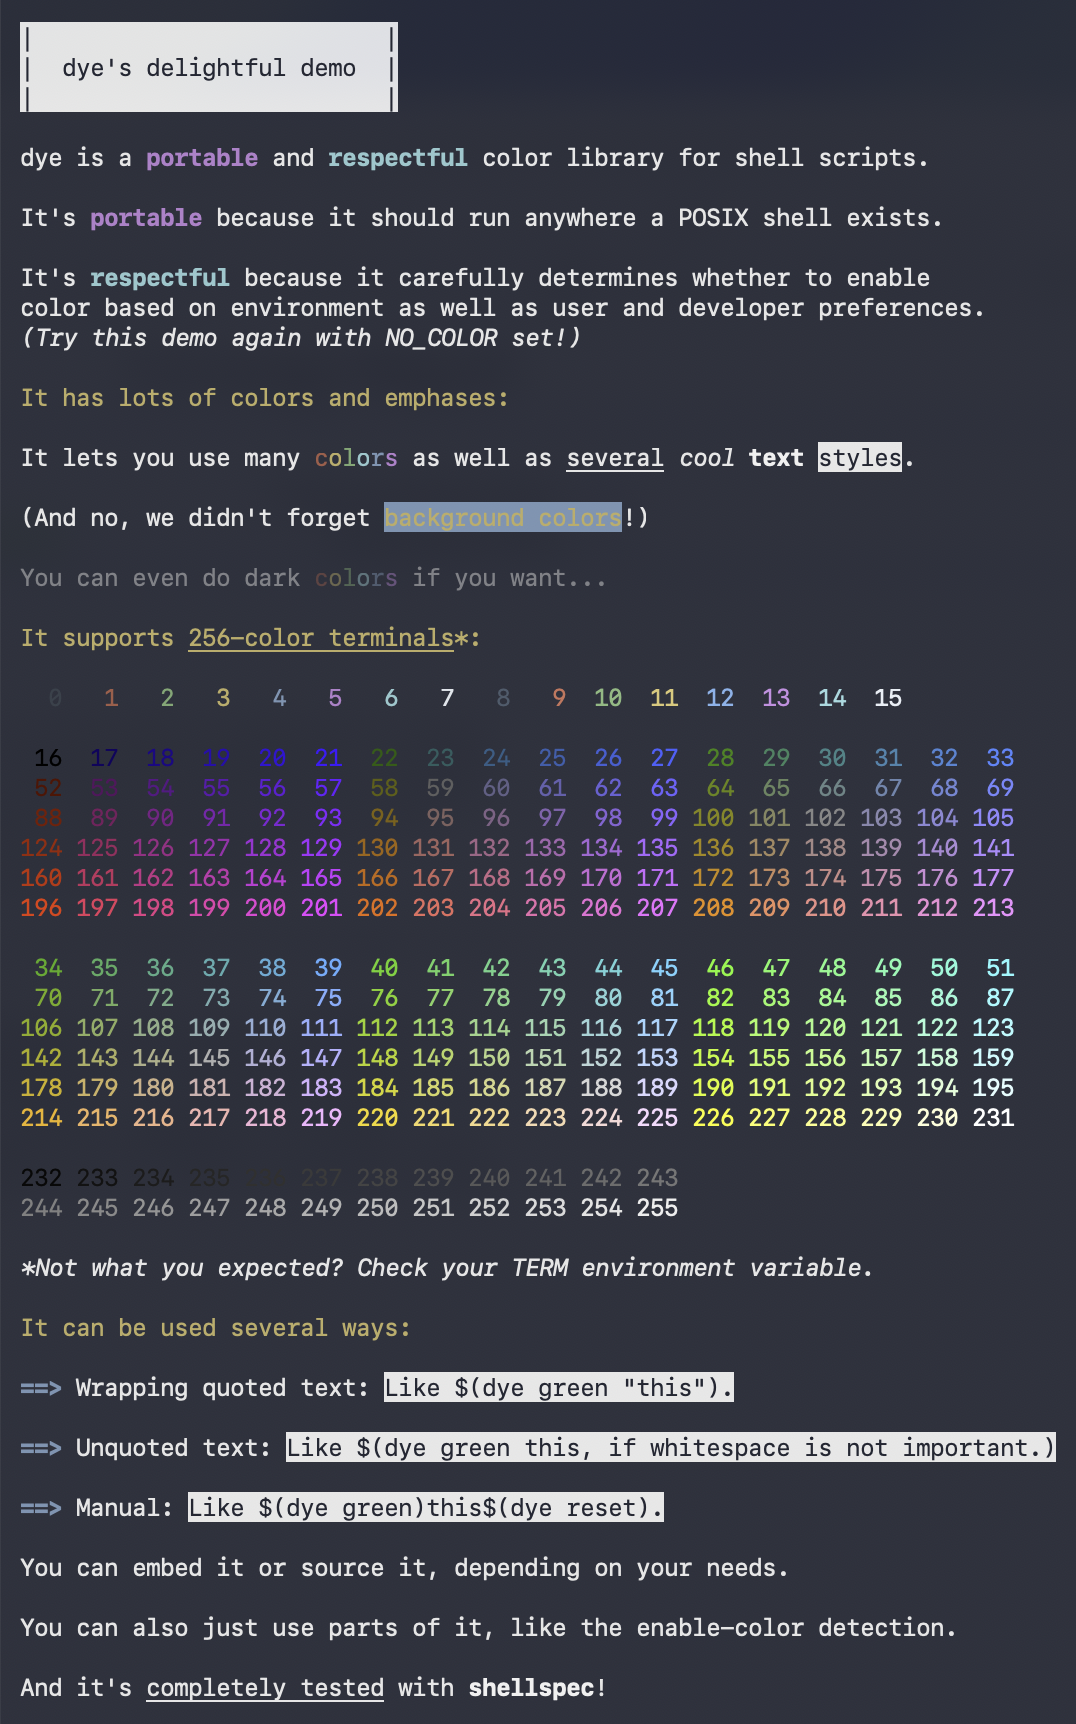
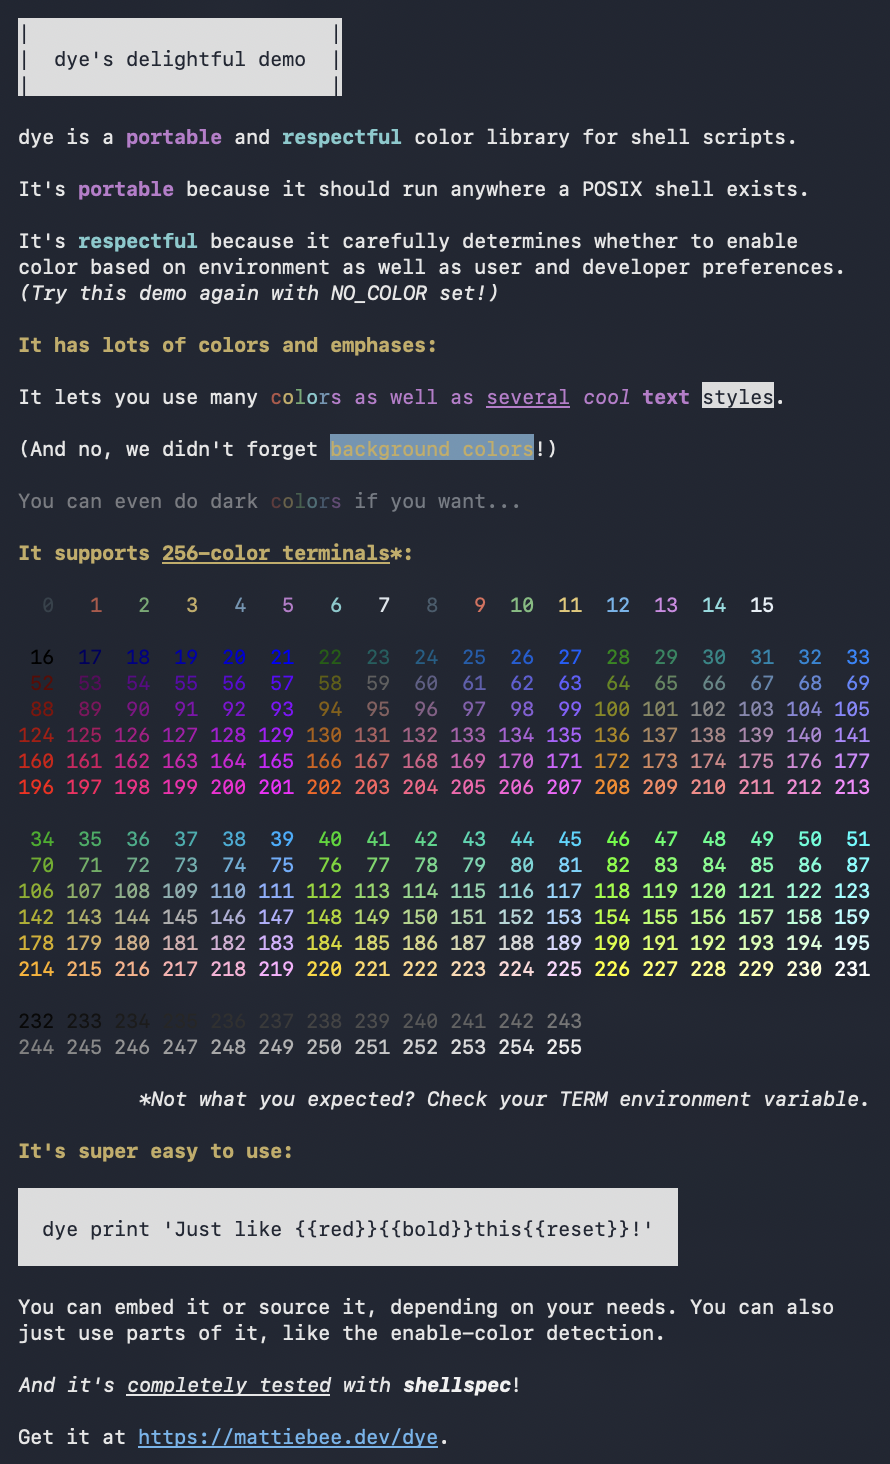
template support, DYE_COLORS unset fix

Changed region(s): [[0.0, 0.0, 1.0, 1.0], [0.8798, 0.7377, 0.9708, 0.7684], [0.0, 0.0, 0.0303, 0.0615]]

diff --git a/README.md b/README.md
@@ -34,7 +34,7 @@ It's respectful because:
 
 -   it is written to only put functions and environment variables prefixed with "dye" or "DYE" into the shell's global namespace, and carefully avoids clobbering any existing shell variables during operation.
 
-dye does call tput(1) for every terminal sequence it needs to output, so it's not screamingly fast. However, in practice, it's more than fast enough for the job I need it for: making the output of shell scripts colorful to make them easier to read and scan. If you're working with lots of color (for example, creating [ANSI art](https://en.wikipedia.org/wiki/ANSI_art)), it's probably best to stick to a solution that caches ANSI sequences and forgo the portability.
+dye does call [tput](https://pubs.opengroup.org/onlinepubs/9799919799/utilities/tput.html) for every terminal sequence it needs to output, so it's not screamingly fast. However, in practice, it's more than fast enough for the job I need it for: making the output of shell scripts colorful to make them easier to read and scan. If you're working with lots of color (for example, creating [ANSI art](https://en.wikipedia.org/wiki/ANSI_art)), it's probably best to stick to a solution that caches ANSI sequences and forgo the portability.
 
 I wrote dye to replace my previous project, [portable-color](https://mattiebee.dev/portable-color). portable-color was fine, but would load lots of functions into the shell's global namespace. dye has a better API, with more capabilities and conveniences.
 
@@ -42,11 +42,13 @@ I wrote dye to replace my previous project, [portable-color](https://mattiebee.d
 
 ### Embedding
 
-You can use dye in your script by copying the contents of [dye.sh](./dye.sh) above the place you will use it.
+You can use dye in your script by copying the contents of [dye.sh](./dye.sh) into your script so that the functions are defined before you use them.
 
 This the method I recommend. Shell scripts that I write are generally made to be self-contained, and embedding makes them very easy to download and use.
 
 A couple notes on this strategy:
+
+-   If you don't want dye's over 100 lines of code at the top of your script, wrap your main code in a function, then insert all of dye's code, and finally call your main function at the end.
 
 -   If you end up changing dye's code, consider changing the names of the dye functions and variables that end up in the shell's global namespace, to avoid conflicts with the standard dye code that may be depended on elsewhere—particularly if you're removing functionality you do not use.
 
@@ -82,7 +84,68 @@ An alternate mode for "setup" will not enable color by default, but will enable 
 dye setup default-off
 ```
 
+### Templates
+
+The best way to use dye is with its built-in templates.
+
+Templates embed other dye commands inside a single string.
+
+```shell
+dye print "{{green}}It's not easy being... well, you know.{{reset}}"
+```
+
+Like ["echo"](https://pubs.opengroup.org/onlinepubs/9799919799/utilities/echo.html), "dye print" ends its output with a newline.
+("dye p" is a shorthand for "dye print" and highly recommended.)
+
+Note that _unlike_ "echo" on many systems, control characters are not automatically parsed. Whatever the shell passes to "dye print" is only processed according to [two simple syntax rules](#syntax).
+
+```shell
+dye write "So {{bold}}bold{{reset}}, it's not recommended "
+dye write "for human consumption!"
+```
+
+"dye write" is the same, except it does not end its output with a newline.
+
+#### Syntax
+
+Templates have two basic syntax rules:
+
+1.  Text between double curly braces ("{{" and "}}") is interpreted as a dye command. The curly braces are not printed.
+
+2.  A backslash ("\") escapes the next character if it is either a backlash or left curly brace. The backslash itself is not printed. Useful if you want to print two left curly braces.
+
+#### Multiline strings
+
+dye commands between double curly braces, and as such can have trailing spaces added to enable multiline strings:
+
+```shell
+dye print "We have an {{bold
+}}awful{{reset}} lot to say across {{bold
+}}many{{reset}} lines."
+```
+
+#### Escaping backslashes
+
+There is one caveat to the syntax rules. If you're using double quotes, the backslash behavior can be a bit unintuitive in one case.
+
+```shell
+dye print "a\\{{red}}/b"
+```
+
+This actually prints "a{{red}}/b", because the double backlash is interpreted as a single backslash by the shell before dye even sees it. dye then interprets the resulting "\\{" as escaping "{".
+
+Escaping both backslashes passes through "\\\\" to dye's engine, which in turn interprets it as an escaped single-backslash. This prints `a\/b` with a red color change in the middle:
+
+```shell
+dye print "a\\\\{{red}}/b"
+```
+
+Using single-quoted strings works around this issue, but of course sacrifices the variable interpolation you get with double-quoted strings. 
+
 ### Wrapping text
+
+> [!NOTE]
+> Wrapping text is deprecated due to the awkwardness of dealing with [resets](#resets) and the extra weirdness of [unquoted wrapping](#unquoted-wrapping), and is likely to be removed in a future major version.
 
 For simple [color](#colors) and [emphasis](#emphases), using dye to wrap quoted text is the most convenient method.
 
@@ -93,6 +156,8 @@ echo "$(dye green "It's not easy being... well, you know.")"
 ```shell
 echo "So $(dye bold "bold"), it's not recommended for human consumption\!"
 ```
+
+#### Unquoted wrapping
 
 Quoting text is also not *strictly* necessary, but can result in the need to use many more escapes (just like it would if using "echo" straight up). It also means whitespace gets collapsed, so beware!
 
@@ -108,7 +173,7 @@ dye will send this reset sequence at the end of wrapped text for colors and sele
 
 ### Manual control
 
-More complex markup is easier to manage with manual control:
+You can generally use [command substitution](https://pubs.opengroup.org/onlinepubs/9799919799/utilities/V3_chap02.html#tag_19_06_03) to capture the output from manual control commands so it can all be strung together:
 
 ```shell
 echo "$(dye cyan)$(dye bold)Cyan$(dye reset), $(dye magenta)$(dye bold
@@ -117,6 +182,8 @@ echo "$(dye cyan)$(dye bold)Cyan$(dye reset), $(dye magenta)$(dye bold
 ```
 
 Using lots of manual control can make lines pretty long, but as you can see, you can also leverage the fact that line breaks are valid inside command substitution to break them up.
+
+It's better (and shorter!) to use [templates](#templates), though. Capturing the output of dye works in most cases, but could break in some obscure situations.
 
 ### Colors
 
@@ -144,20 +211,22 @@ There's the basic ANSI color set:
 "dye yellow" will set the foreground color to yellow, for example. There are also "fg" and "bg" commands that will explicitly set the foreground or background color, respectively:
 
 ```shell
-echo "$(dye bg blue)$(dye fg yellow)In Ann Arbor, everything is this color.$(dye reset)"
+dye print '{{bg blue}}{{fg yellow}}In Ann Arbor, everything is this color.{{reset}}'
 ```
+
+Turning colors off requires replacing them with a different color, or a [reset](#resets).
 
 #### High colors
 
-Some terminal definitions, like "ansi" and "xterm", don't recognize colors higher than 7. If "DYE_COLORS" is 8, indicating this scenario, dye will synthesize "bright" colors by turning on "bold" and setting the non-bright equivalent.
+Some terminal definitions, like "ansi" and "xterm", don't recognize colors higher than 7. If only colors 0-7 are supported, indicated by "DYE_COLORS" being set to 8 (via [setup](#initialization)), dye will synthesize "bright" colors by turning on "bold" and setting the non-bright equivalent color. (Some terminals will, in turn, render this with a bright color!)
 
 Note that this also means that "bold" may be turned on unexpectedly if you're using "bright" colors—so keep this situation in mind:
 
+-   If you're using templates or manual control, be sure to reset at the appropriate time if the possiblity that "bold" might be on.
+
 -   If you're nesting wrapped text, make sure that nested text deals with the fact that "bold" might be on if you're using a "bright" color.
 
--   If you're using manual control, be sure to reset at the appropriate time if the possiblity that "bold" might be on.
-
-You can test to see how your code is working by setting TERM to "ansi" or "xterm" on many systems.
+You can test your code in this situation by setting "TERM" to "ansi" or "xterm" on many systems.
 
 ### Emphases
 
@@ -181,17 +250,17 @@ The second group have "end" terminal sequences that can turn them off explicitly
 -   `standout` (or `so`, often displayed as reversed foreground and background)
 -   `underline` (or `ul`, or `u`)
 
-When using one of these, you don't have to re-enable other modes:
+When using one of these, you don't have to re-enable other modes—just "end" them:
 
 ```shell
-echo "$(dye magenta)Mary $(dye italic "had") a little lamb.$(dye reset)"
-echo "$(dye magenta)Mary had a $(dye italic "little") lamb.$(dye reset)"
+dye print "{{magenta}}Mary {{italic}}had{{end italic}} a little lamb.{{reset}}"
+dye print "{{magenta}}Mary had a {{italic}}little{{end italic}} lamb.{{reset}}"
 ```
 
-For manual control, the "end" command can be used for these:
+They also support old-school wrapping:
 
 ```shell
-echo "Visit $(dye ul)https://mattiebee.dev/dye$(dye end ul) to get the code."
+echo "Visit $(dye ul "https://mattiebee.dev/dye") to get the code."
 ```
 
 To match "end", "begin" is also available (and works with all emphases). It behaves the same way as just using the emphasis, e.g. "dye begin italic" is equivalent to "dye italic".
@@ -214,8 +283,8 @@ This is particularly important because dye should run everywhere it can, includi
 
 #### tput
 
-During the development of dye, I did explore things like caching the output of tput(1) so it didn't have to be invoked quite so much.
+During the development of dye, I did explore things like caching the output of "tput" so it didn't have to be invoked quite so much.
 
-The added complexity was really not worth it, since tput(1) is still fast enough (i.e. not at all noticeably slow) for most purposes where a shell script is doing work for at least a small amount of time. The cache would also need to be filled, and most scripts just don't switch colors enough to make it worthwhile.
+The added complexity was really not worth it, since "tput" is still fast enough (i.e. not at all noticeably slow) for most purposes where a shell script is doing work for at least a small amount of time. The cache would also need to be filled, and most scripts just don't switch colors enough to make it worthwhile.
 
-The sequences dye generally uses are simple and unconcerned with this, but there are also interesting details with certain terminal control sequences on certain systems that tput(1) can handle if invoked directly, such as embedded delays. So, the practice also encourages maximum compatibility.
+The sequences dye generally uses are simple and unconcerned with this, but there are also interesting details with certain terminal control sequences on certain systems that "tput" can handle if invoked directly, such as embedded delays. So, the practice also encourages maximum compatibility—especially if using the new template engine, which passes control back and forth between "tput" and "printf".

diff --git a/CHANGELOG.md b/CHANGELOG.md
@@ -1,3 +1,11 @@
 # 1.0.0
 
 Initial version.
+
+# 1.1.0
+
+-   Adds [templates](./README.md#templates) and the "dye print" and "dye write" commands to use them. Templates are more concise than any other way of using dye and are expected to be the main interface in future major versions.
+
+-   Deprecated [wrapping text](./README.md#wrapping-text) because of its sharp edges.
+
+-   Fixed an issue where, if dye decided to disable color, "unbound variable" errors could be printed in some circumstances.
